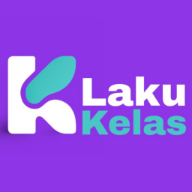
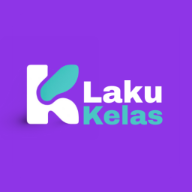
updatev3

Changed region(s): [[0.0, 0.2812, 0.9688, 0.7188]]

diff --git a/src/app/page.tsx b/src/app/page.tsx
@@ -179,8 +179,8 @@ export default function LoginPage() {
             </div>
             
             <div className={`relative z-10 transition-all duration-1000 transform ${isVisible ? 'translate-y-0 opacity-100' : 'translate-y-8 opacity-0'}`}>
-                <div className="flex items-center justify-center gap-4 mb-6">
-                    <div>
+                <div className="flex flex-col items-center justify-center mb-6">
+                    <div className="mb-4">
                         <Image src="/login.png" alt="LakuKelas Logo" width={80} height={80} className="w-20 h-20 drop-shadow-lg" />
                     </div>
                     <h1 className="text-5xl font-bold tracking-tighter">
